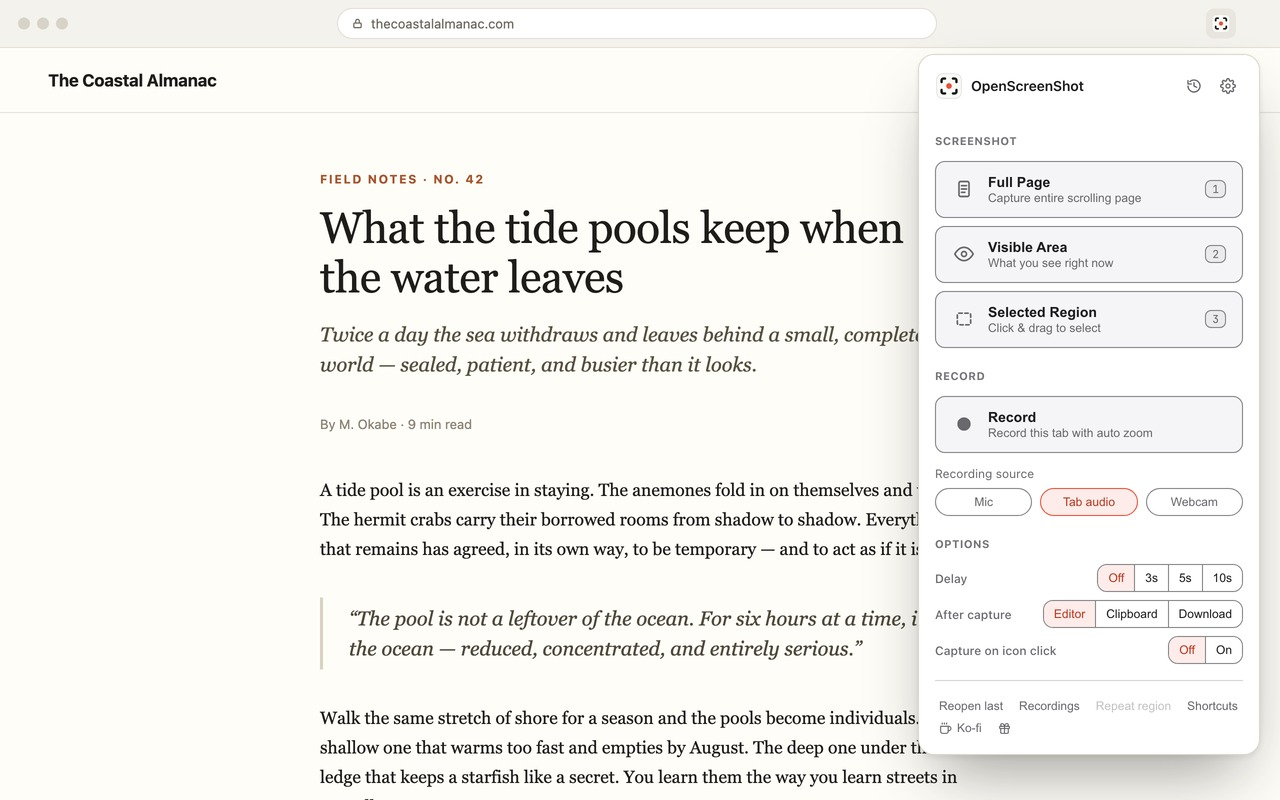
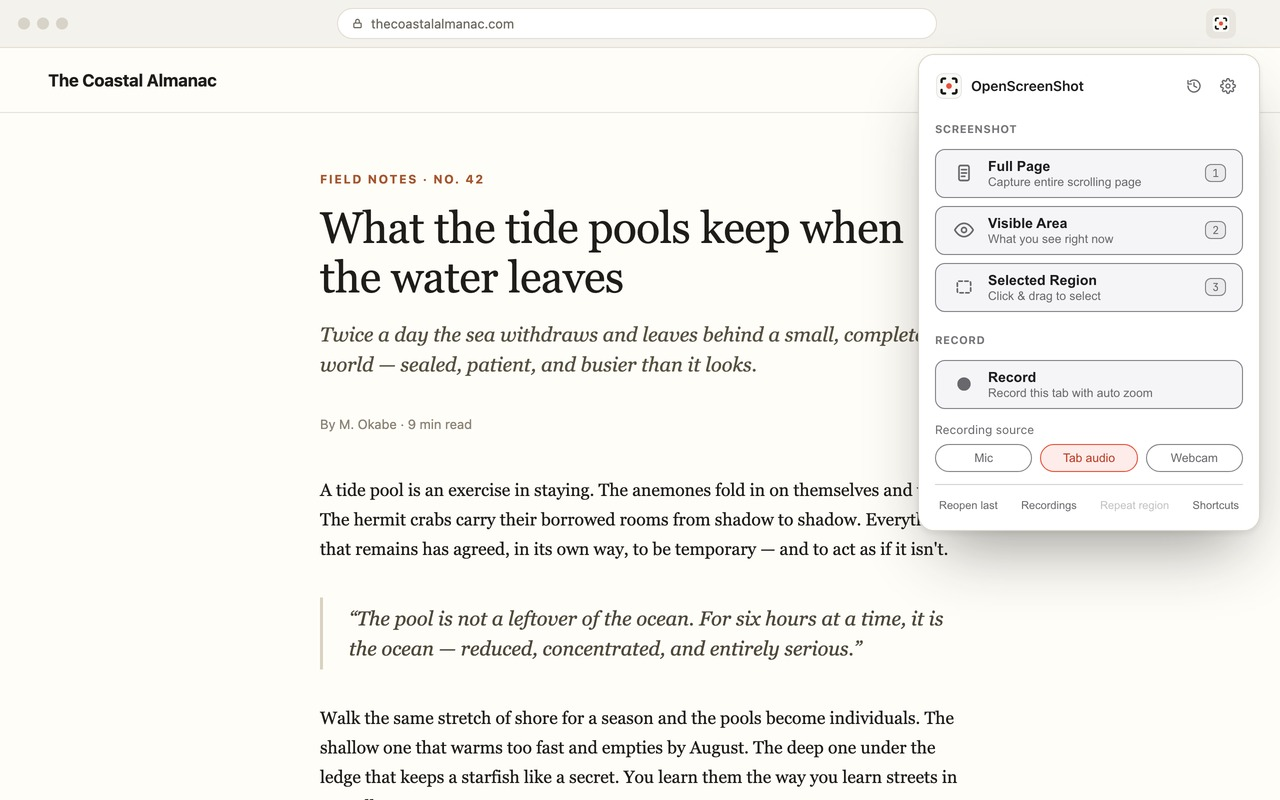
chore(shots): re-render with the tightened popup, and re-cut the hero crop
The hero frame's 356px crop used to land mid-card. Against the shorter
cards it lands 2px under the Record card's bottom edge instead, which reads
as the whole popup rather than the top third of one. 400px puts the cut back
through the recording-source chips, where it is plainly a crop.

Changed region(s): [[0.6875, 0.1562, 1.0, 1.0], [0.9375, 0.1875, 0.9688, 0.4062], [0.875, 0.875, 0.9062, 0.9062]]

diff --git a/scripts/shots/hero.html b/scripts/shots/hero.html
@@ -101,7 +101,10 @@
         right: 26px;
         top: 72px;
         width: 340px;
-        height: 356px;
+        /* Cuts through the recording-source chips on purpose: a crop that
+           lands on a card's bottom edge reads as the whole popup, and this
+           one is a third of it. The Record card ends at 354px. */
+        height: 400px;
         border-radius: 16px;
         overflow: hidden;
         background: #fff;
